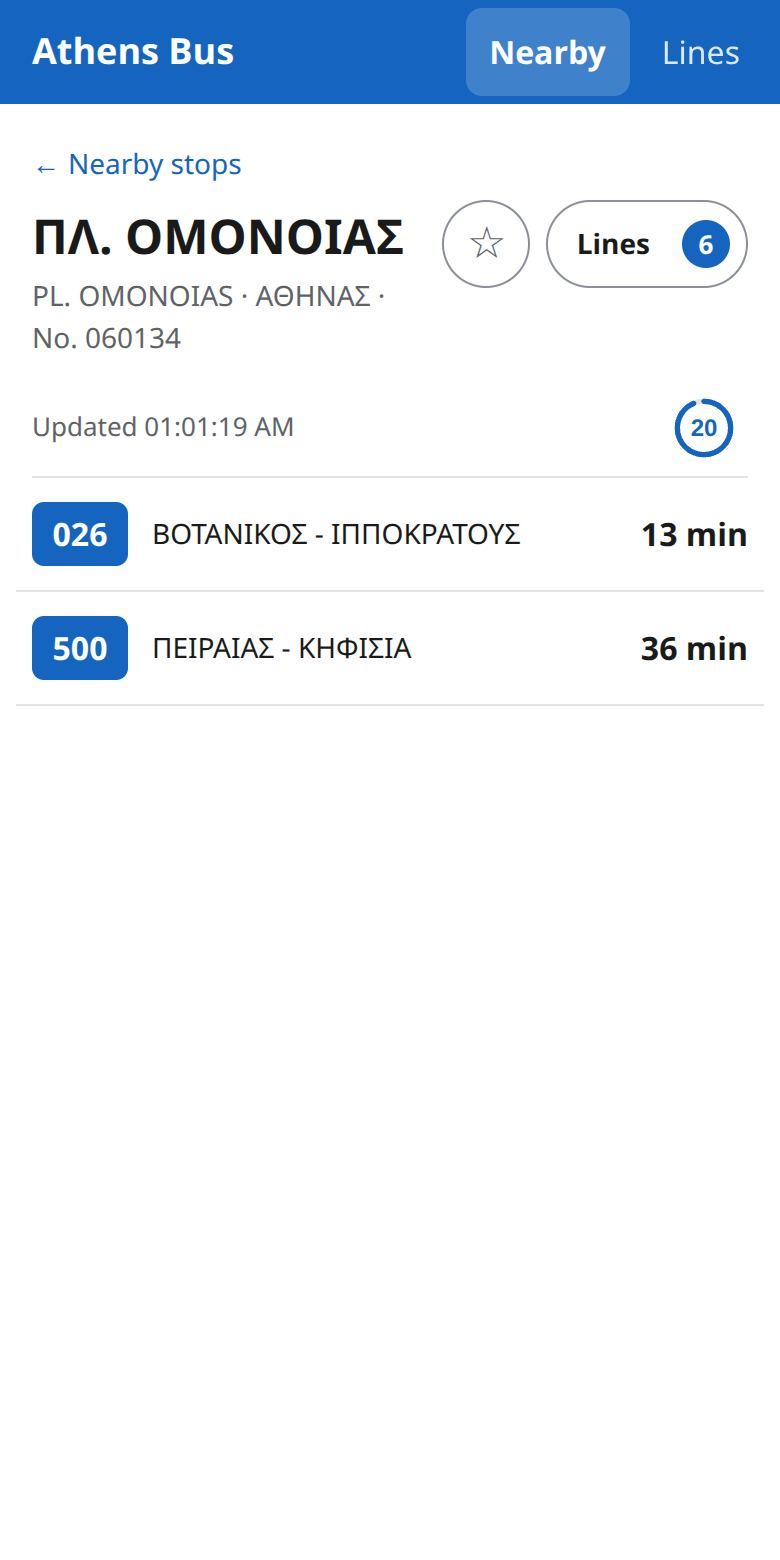
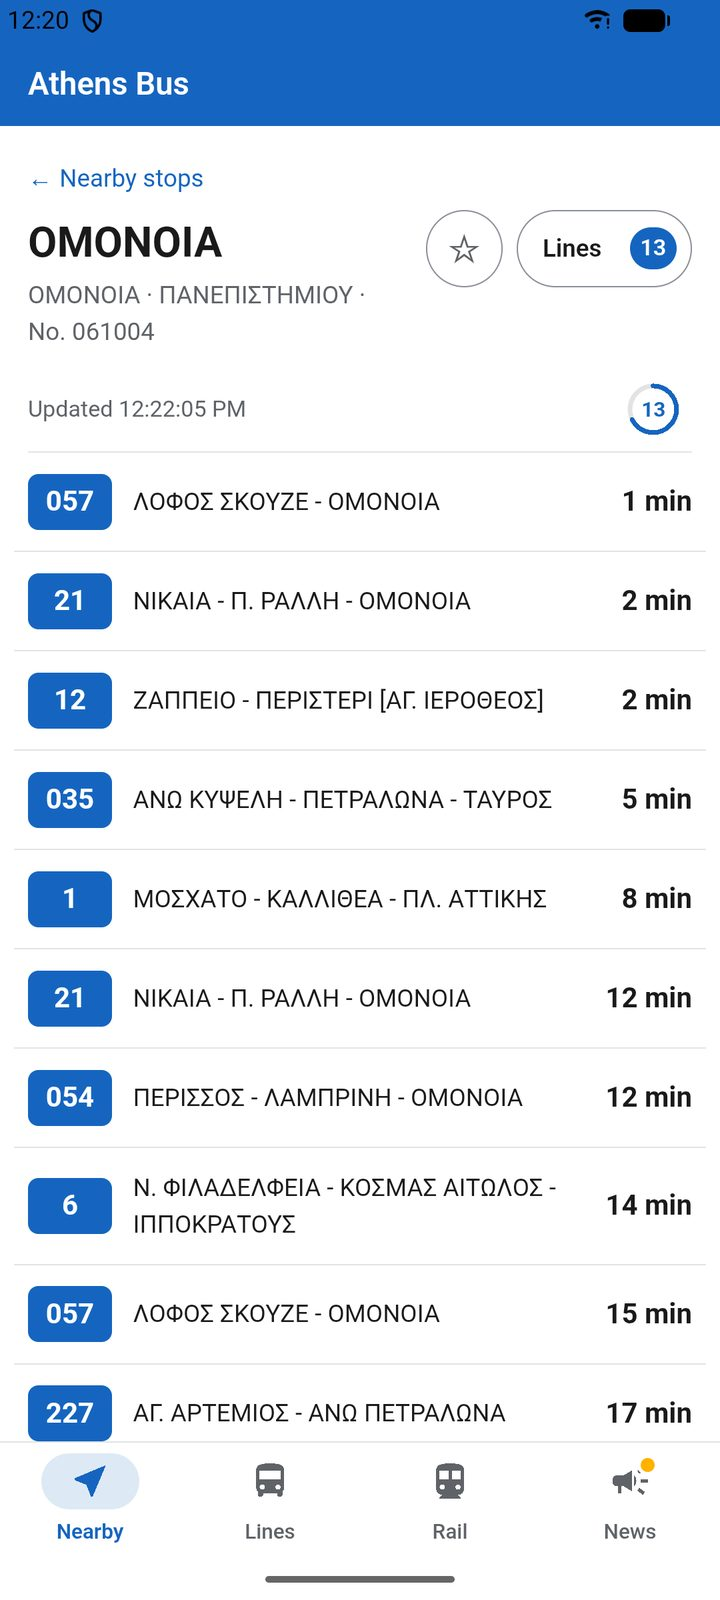
New screenshots on the Android app page, with the Rail tab (#17)
The old screenshots predate the bottom tab bar. The new ones are from
the Android app 1.4 (emulator, 1080 × 2400 saved at 720 × 1600), and
add the Rail tab's map and a tram stop's departures. The page also
mentions the metro and tram in its intro and feature list.

diff --git a/src/features/download/AppPage.tsx b/src/features/download/AppPage.tsx
@@ -2,11 +2,14 @@ import { Link } from 'react-router'
 import { CERT_SHA256, LATEST_APK_URL, SOURCE_URL, useLatestRelease } from './release'
 import './AppPage.css'
 
+// Taken in the Android app (1080 × 2400, saved at 720 × 1600)
 const SCREENSHOTS = [
   { file: 'nearby', caption: 'Stops near you' },
   { file: 'arrivals', caption: 'Live arrivals' },
-  { file: 'buses', caption: 'Your bus on the map' },
+  { file: 'buses', caption: 'Live buses on the map' },
   { file: 'timetable', caption: 'Timetables' },
+  { file: 'rail', caption: 'Metro and tram' },
+  { file: 'station', caption: 'Next trains and trams' },
 ]
 
 export function AppPage() {
@@ -20,7 +23,8 @@ export function AppPage() {
         <img src="/pwa-192.png" alt="" width="72" height="72" className="app-hero-icon" />
         <h1>Athens Bus for Android</h1>
         <p className="app-hero-lead">
-          Nearby stops, live arrivals, timetables and live bus positions for Athens. Free, no ads, no account.
+          Nearby stops, live arrivals, timetables and live bus positions for Athens, plus the metro and tram. Free, no
+          ads, no account.
         </p>
         <a className="download-button" href={LATEST_APK_URL}>
           Download for Android
@@ -42,7 +46,7 @@ export function AppPage() {
           {SCREENSHOTS.map((s) => (
             <li key={s.file}>
               <figure>
-                <img src={`/app/screenshot-${s.file}.jpg`} alt={s.caption} width="390" height="780" loading="lazy" />
+                <img src={`/app/screenshot-${s.file}.jpg`} alt={s.caption} width="360" height="800" loading="lazy" />
                 <figcaption>{s.caption}</figcaption>
               </figure>
             </li>
@@ -64,6 +68,10 @@ export function AppPage() {
           </li>
           <li>
             <strong>Timetables</strong> for every line: today, weekdays and weekends
+          </li>
+          <li>
+            <strong>Metro and tram</strong> on a map, with positions estimated from STASY’s timetable, and the next
+            departures at every station
           </li>
           <li>
             <strong>Favourite stops</strong> and line search in Greek or English
